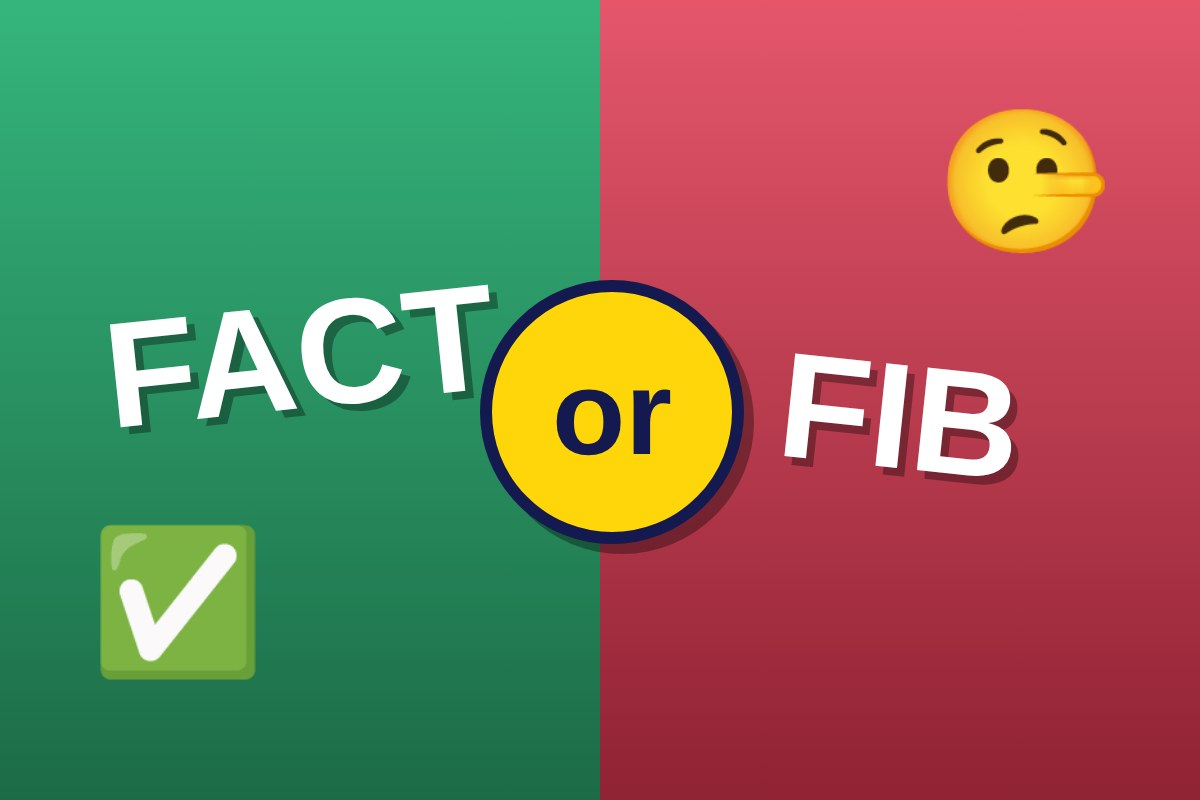
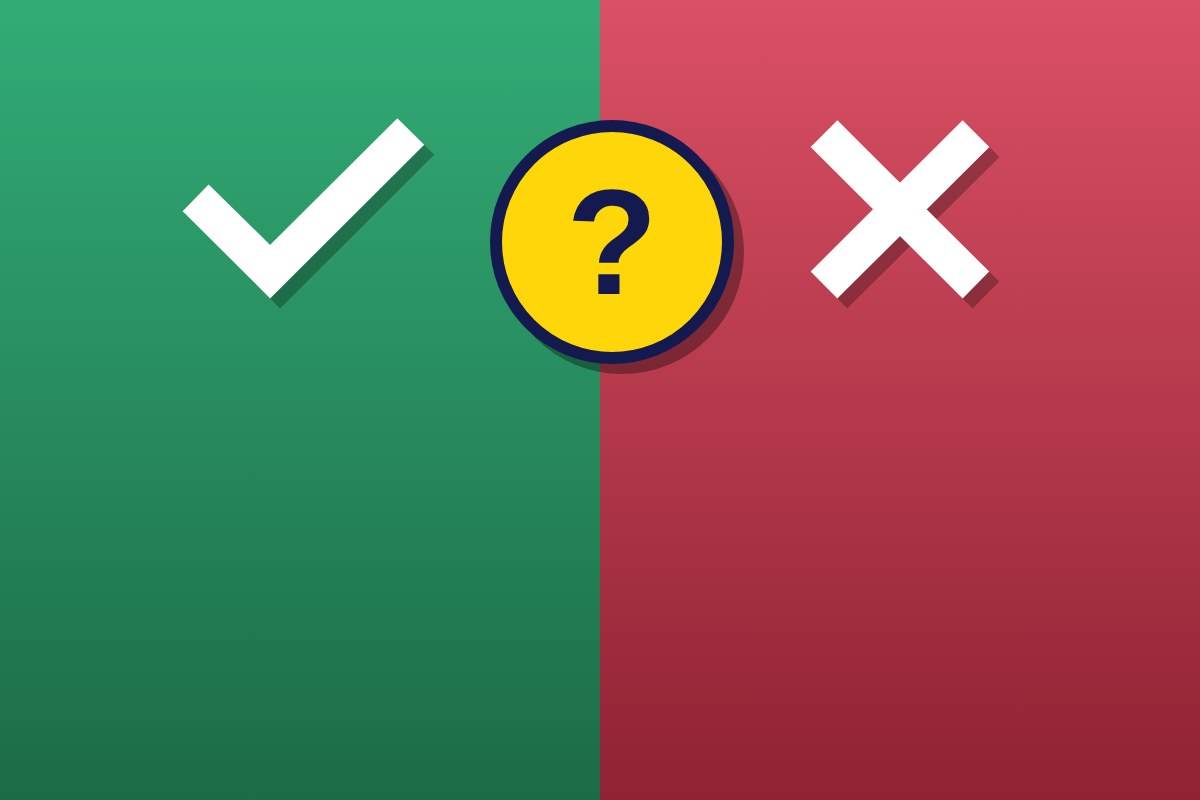
Menu covers carry the game's name over a color wash
Claude-Session: https://claude.ai/code/session_01VjeJhy9f4aLZ6bUje29QWE

Changed region(s): [[0.0925, 0.125, 0.8633, 0.7188], [0.6783, 0.125, 0.925, 0.375], [0.0617, 0.6562, 0.2158, 0.875]]

diff --git a/js/tv.js b/js/tv.js
@@ -900,6 +900,8 @@ Object.entries({
   kids: ['hunt', 'freeze', 'copycat', 'memory', 'ducks', 'potato', 'bingo', 'charades', 'gofish', 'shake', 'rps'], show: ['trivia', 'spin', 'crowd', 'ladder', 'cases', 'quick', 'estimate', 'rebus', 'survive', 'fib', 'clock', 'gold', 'auction'],
   noir: ['imposter', 'faker', 'wordhunt', 'agents', 'missions', 'mystery', 'bomb'], teams: ['taboo', 'bowl', 'crew', 'meld', 'oneword'], felt: ['clash', 'blackjack', 'hearts'],
 }).forEach(([t, ids]) => ids.forEach(id => (THEME_OF[id] = t)));
+// The color washed over the bottom of a game's cover, behind its name, by the world the game lives in.
+const TINT = { night: '#1b2a6b', comic: '#b0185a', paper: '#a8231c', sketch: '#0a6f7a', kids: '#1c6b46', show: '#4a1ba8', noir: '#1c2433', teams: '#a04c08', felt: '#14532d' };
 // Headlines arrive a word at a time.
 function wordsIn() {
   app.querySelectorAll('.stage.enter .panel > h2, .stage.enter .panel > .cq').forEach(el => {
@@ -969,7 +971,7 @@ function renderLobby() {
     if (!GAMES[host.gameId]) host.gameId = 'werewolf';
     const rows = SHELVES.filter(f => f.games).map(f => ({ id: f.id, name: f.name, games: f.games.filter(id => GAMES[id]) }));
     if (!menuAt || !rows.some(r => r.id === menuAt.row && r.games.includes(menuAt.game))) { const r = rows.find(x => x.games.includes(host.gameId)) || rows[0]; menuAt = { row: r.id, game: r.games.includes(host.gameId) ? host.gameId : r.games[0] }; }
-    const card = (id, row) => { const m = GAMES[id].meta; return `<button class="gcard ${menuAt.row === row && menuAt.game === id ? 'on' : ''}" data-game="${id}" data-row="${row}"><span class="gimg">${thumb(id, ICONS[id])}</span><b>${esc(m.name)}</b><small class="gfacts">${m.min}–${m.max} · ${m.mins} min</small>${locked(id) ? '<small class="glock" title="Locked">🔒</small>' : ''}${m.kids ? '<small class="gbadge">🧒</small>' : ''}${watching() && SAME_ROOM.includes(id) ? '<small class="sameroom">🏠 same room</small>' : ''}</button>`; };
+    const card = (id, row) => { const m = GAMES[id].meta; return `<button class="gcard ${menuAt.row === row && menuAt.game === id ? 'on' : ''}" data-game="${id}" data-row="${row}"><span class="gimg">${thumb(id, ICONS[id])}<i class="gwash" style="--t:${TINT[THEME_OF[id]] || TINT.night}"></i><em class="gname ${m.name.length > 15 ? 'long' : m.name.length > 10 ? 'mid' : ''}">${esc(m.name)}</em></span><b class="gunder">${esc(m.name)}</b><small class="gfacts">${m.min}–${m.max} · ${m.mins} min</small>${locked(id) ? '<small class="glock" title="Locked">🔒</small>' : ''}${m.kids ? '<small class="gbadge">🧒</small>' : ''}${watching() && SAME_ROOM.includes(id) ? '<small class="sameroom">🏠 same room</small>' : ''}</button>`; };
     const barHtml = `<div class="joinbox">${host.settings.streamer ? '' : `<div class="qr">${qr(joinUrl())}</div>`}<div class="jtext"><small>${n ? 'Join on your phone' : 'Scan to join, or go to'}</small><span class="jurl">${esc(joinHost())}</span><b class="code mini">${host.settings.streamer ? '••••' : host.code}</b></div></div>
         <div class="joined">${host.players.length ? host.players.map(p => `<span class="jface ${p.away ? 'away' : ''}" style="--pc:${p.face?.[1] || '#232a5c'}"><i>${p.face?.[0] || '🙂'}</i><em>${esc(p.name)}</em></span>`).join('') : '<span class="jwait">Waiting for the first player…</span>'}</div>
         <div class="herobtns"><button class="btn ghost small" data-host="settings">⚙ Settings</button>${tq.has('local') || host.players.some(p => p.bot) ? '<button class="btn ghost small" data-host="addbot">🤖 Add a bot</button>' : ''}${host.tally?.games.length ? '<button class="btn ghost small" data-host="awards">🏆 Awards</button>' : ''}</div>`;

diff --git a/css/app.css b/css/app.css
@@ -2738,3 +2738,9 @@ body:not(.hubmode) #nightline,body.phone #nightline{display:none}
 .wsrows{display:grid;gap:6px}.wsrows .pdrow span{white-space:normal}u.only{text-decoration:none;color:#ffd60a;font-weight:800}
 .wsgrid.phone{width:100%;max-width:360px;margin:8px auto;gap:7px;touch-action:none}.wsgrid.phone i{font-size:34px;border-radius:12px}.wsgrid.phone i.on{background:#ffd60a;transform:scale(.94)}
 .wsword{min-height:44px;text-align:center;font:800 32px/44px Outfit,sans-serif;letter-spacing:.08em}
+/* Game covers carry their own name: a wash of the game's color along the bottom, the name set big over it */
+.gcard .gimg{position:relative}
+.gwash{position:absolute;inset:0;background:linear-gradient(to top,var(--t) 6%,color-mix(in srgb,var(--t) 80%,transparent) 36%,transparent 76%);pointer-events:none}
+.gname{position:absolute;left:6%;right:5%;bottom:6%;font:400 clamp(20px,calc(2.5*var(--vw,1vw)),50px)/.95 Anton,Impact,'Arial Narrow Bold',sans-serif;font-style:normal;text-transform:uppercase;letter-spacing:.01em;color:#fff;text-shadow:.06em .06em 0 #0009;transform:rotate(-3deg);transform-origin:left bottom;white-space:normal;overflow-wrap:break-word;pointer-events:none}
+.gname.mid{font-size:clamp(17px,calc(2.1*var(--vw,1vw)),42px)}.gname.long{font-size:clamp(15px,calc(1.75*var(--vw,1vw)),35px)}
+.gcard .gunder{display:none}

diff --git a/tv.html b/tv.html
@@ -12,7 +12,7 @@
 <meta name="theme-color" content="#0e1230">
 <link rel="apple-touch-icon" href="icon.svg">
 <link rel="preconnect" href="https://fonts.googleapis.com">
-<link href="https://fonts.googleapis.com/css2?family=Pirata+One&family=Outfit:wght@400;600;800&family=Bangers&family=Fredoka:wght@500;700&family=Special+Elite&family=Righteous&family=Noto+Color+Emoji&display=swap" rel="stylesheet">
+<link href="https://fonts.googleapis.com/css2?family=Pirata+One&family=Anton&family=Outfit:wght@400;600;800&family=Bangers&family=Fredoka:wght@500;700&family=Special+Elite&family=Righteous&family=Noto+Color+Emoji&display=swap" rel="stylesheet">
 <link rel="stylesheet" href="css/app.css">
 <script src="js/vendor/qrcode.js"></script>
 </head>

diff --git a/BACKLOG.md b/BACKLOG.md
@@ -256,3 +256,4 @@ Things decided to do later, in rough priority order within each group. Updated 2
 - New games: Fact or Fib (js/games/fib.js, 96 true/false statements in fib-bank.js, streaks pay x2 and x3) and Inner Clock (js/games/clock.js, stop a hidden clock at a target time; Blind and Decoy rounds; stop times are measured on the TV). Not in LAUNCH; narration not recorded; rendered covers. test/_open.mjs is a shared opening for new browser tests.
 - New games: Doodle Dash (dash.js, live draw-and-guess), Gold Rush (gold.js, trivia with treasure chests: gold, jackpot, hole, steal, swap), Rock Paper Showdown (rps.js), Going Once (auction.js, sealed bids with a secret insider), Word Storm (grid.js; word list js/games/grid-dict.js built by tools/griddict.mjs from SCOWL via the MIT wordlist-english package, copyright notice in tools/SCOWL-Copyright.txt). Sketch Telephone has a Twist option: redraw from memory, invisible ink, start from a squiggle. mountPad takes opts {live, ink, start}.
 - Menu: tonight's standings ticker in the top bar (nightLine in tv.js); mouse hover over cards is silent; touch devices say 'Tap a game to play'; the TV page keeps a tablet's screen awake.
+- Menu covers now carry the game's name: a wash of the game's theme color (TINT in tv.js) along the bottom of the picture with the name in Anton over it; the small name under the card is hidden. The nine code-drawn covers that had titles baked in were re-rendered without them.
